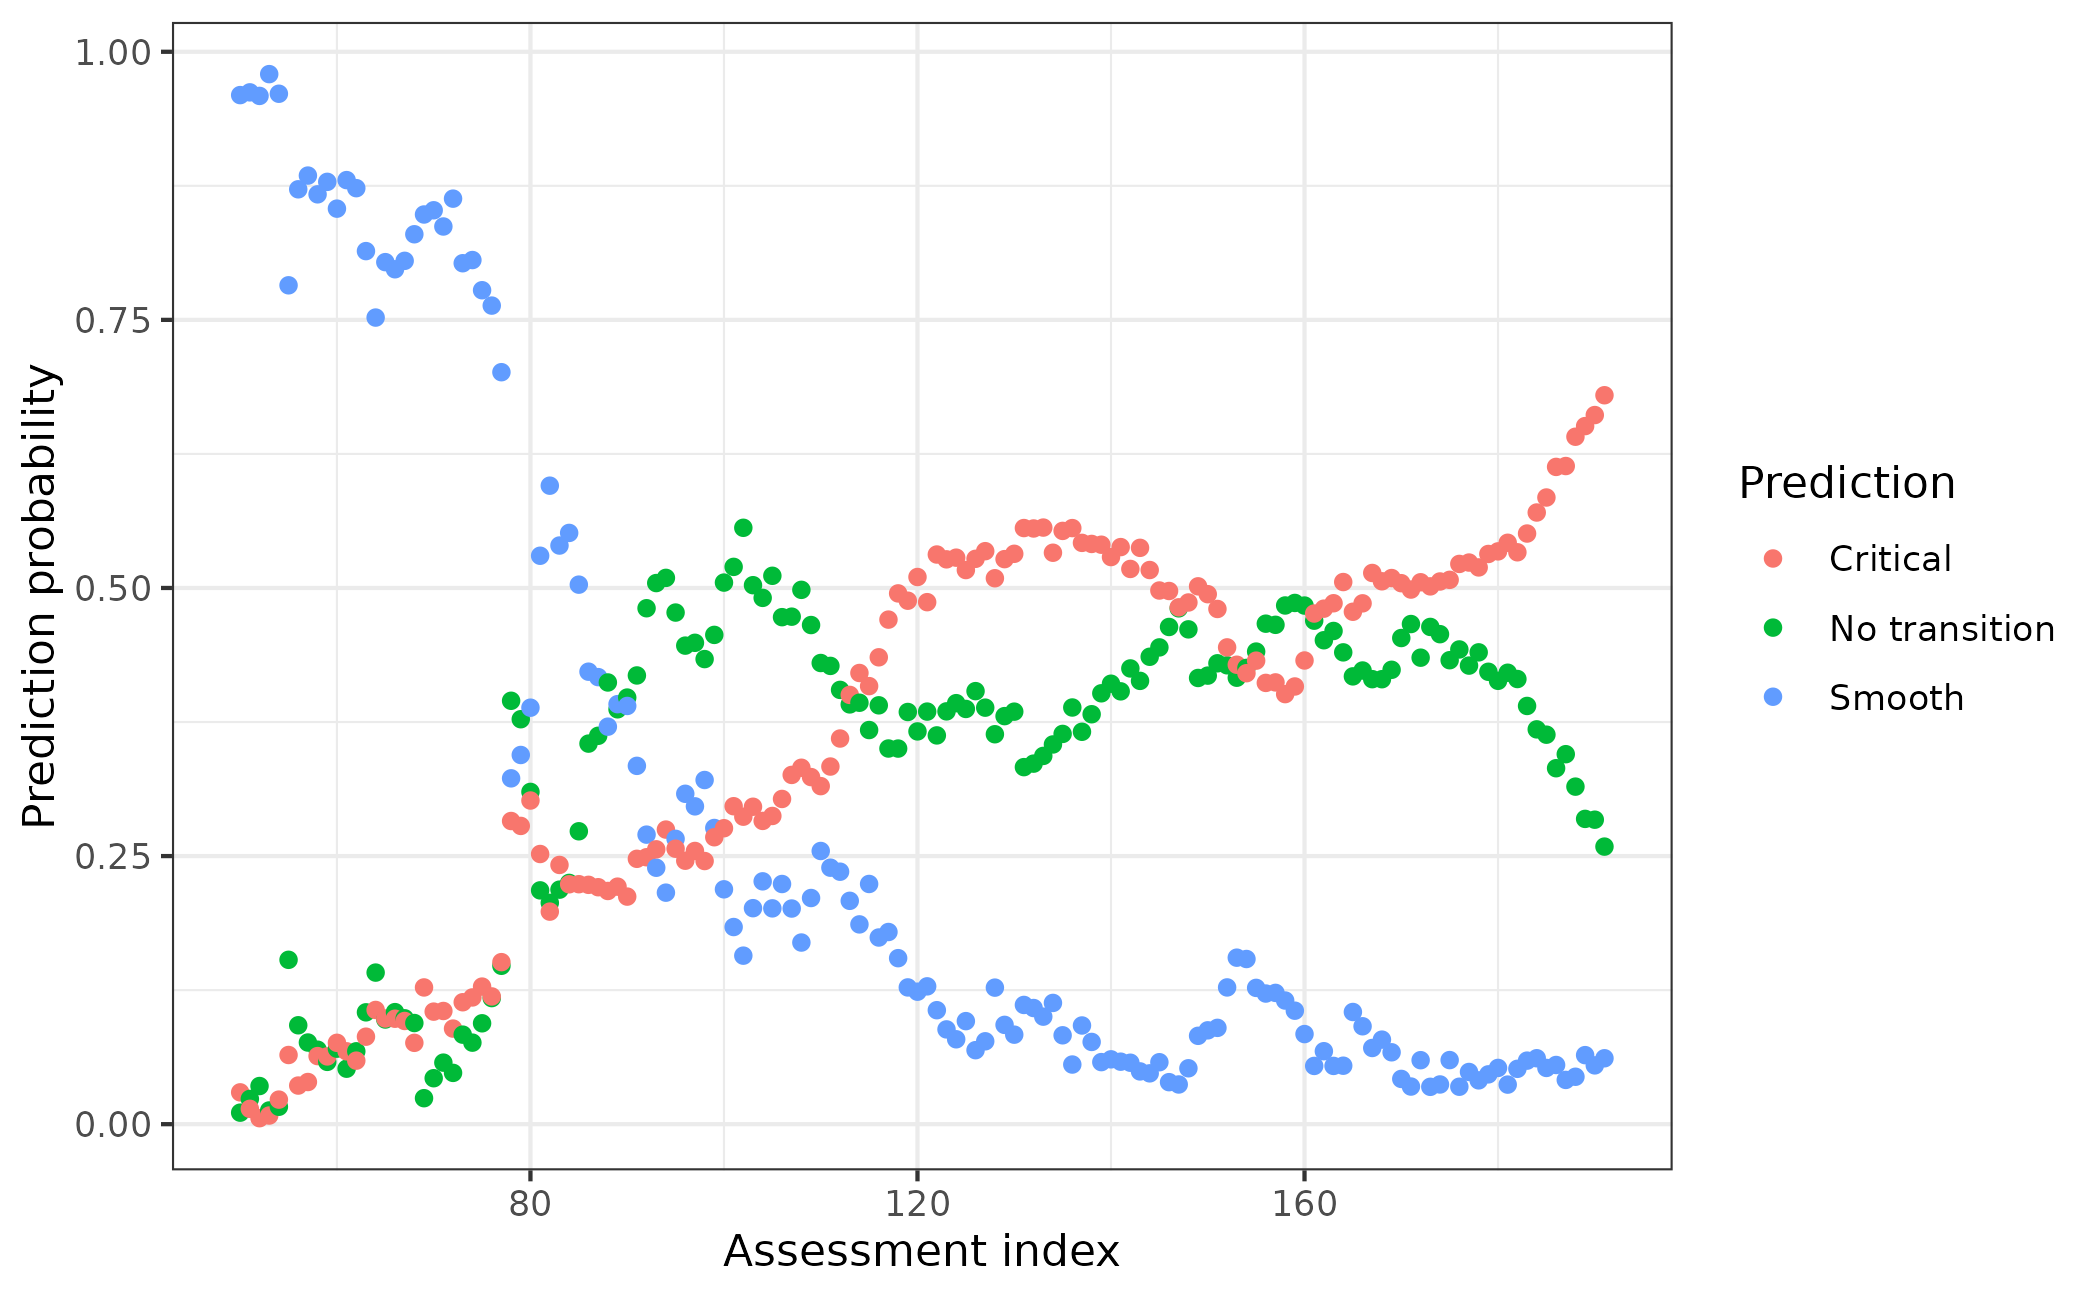
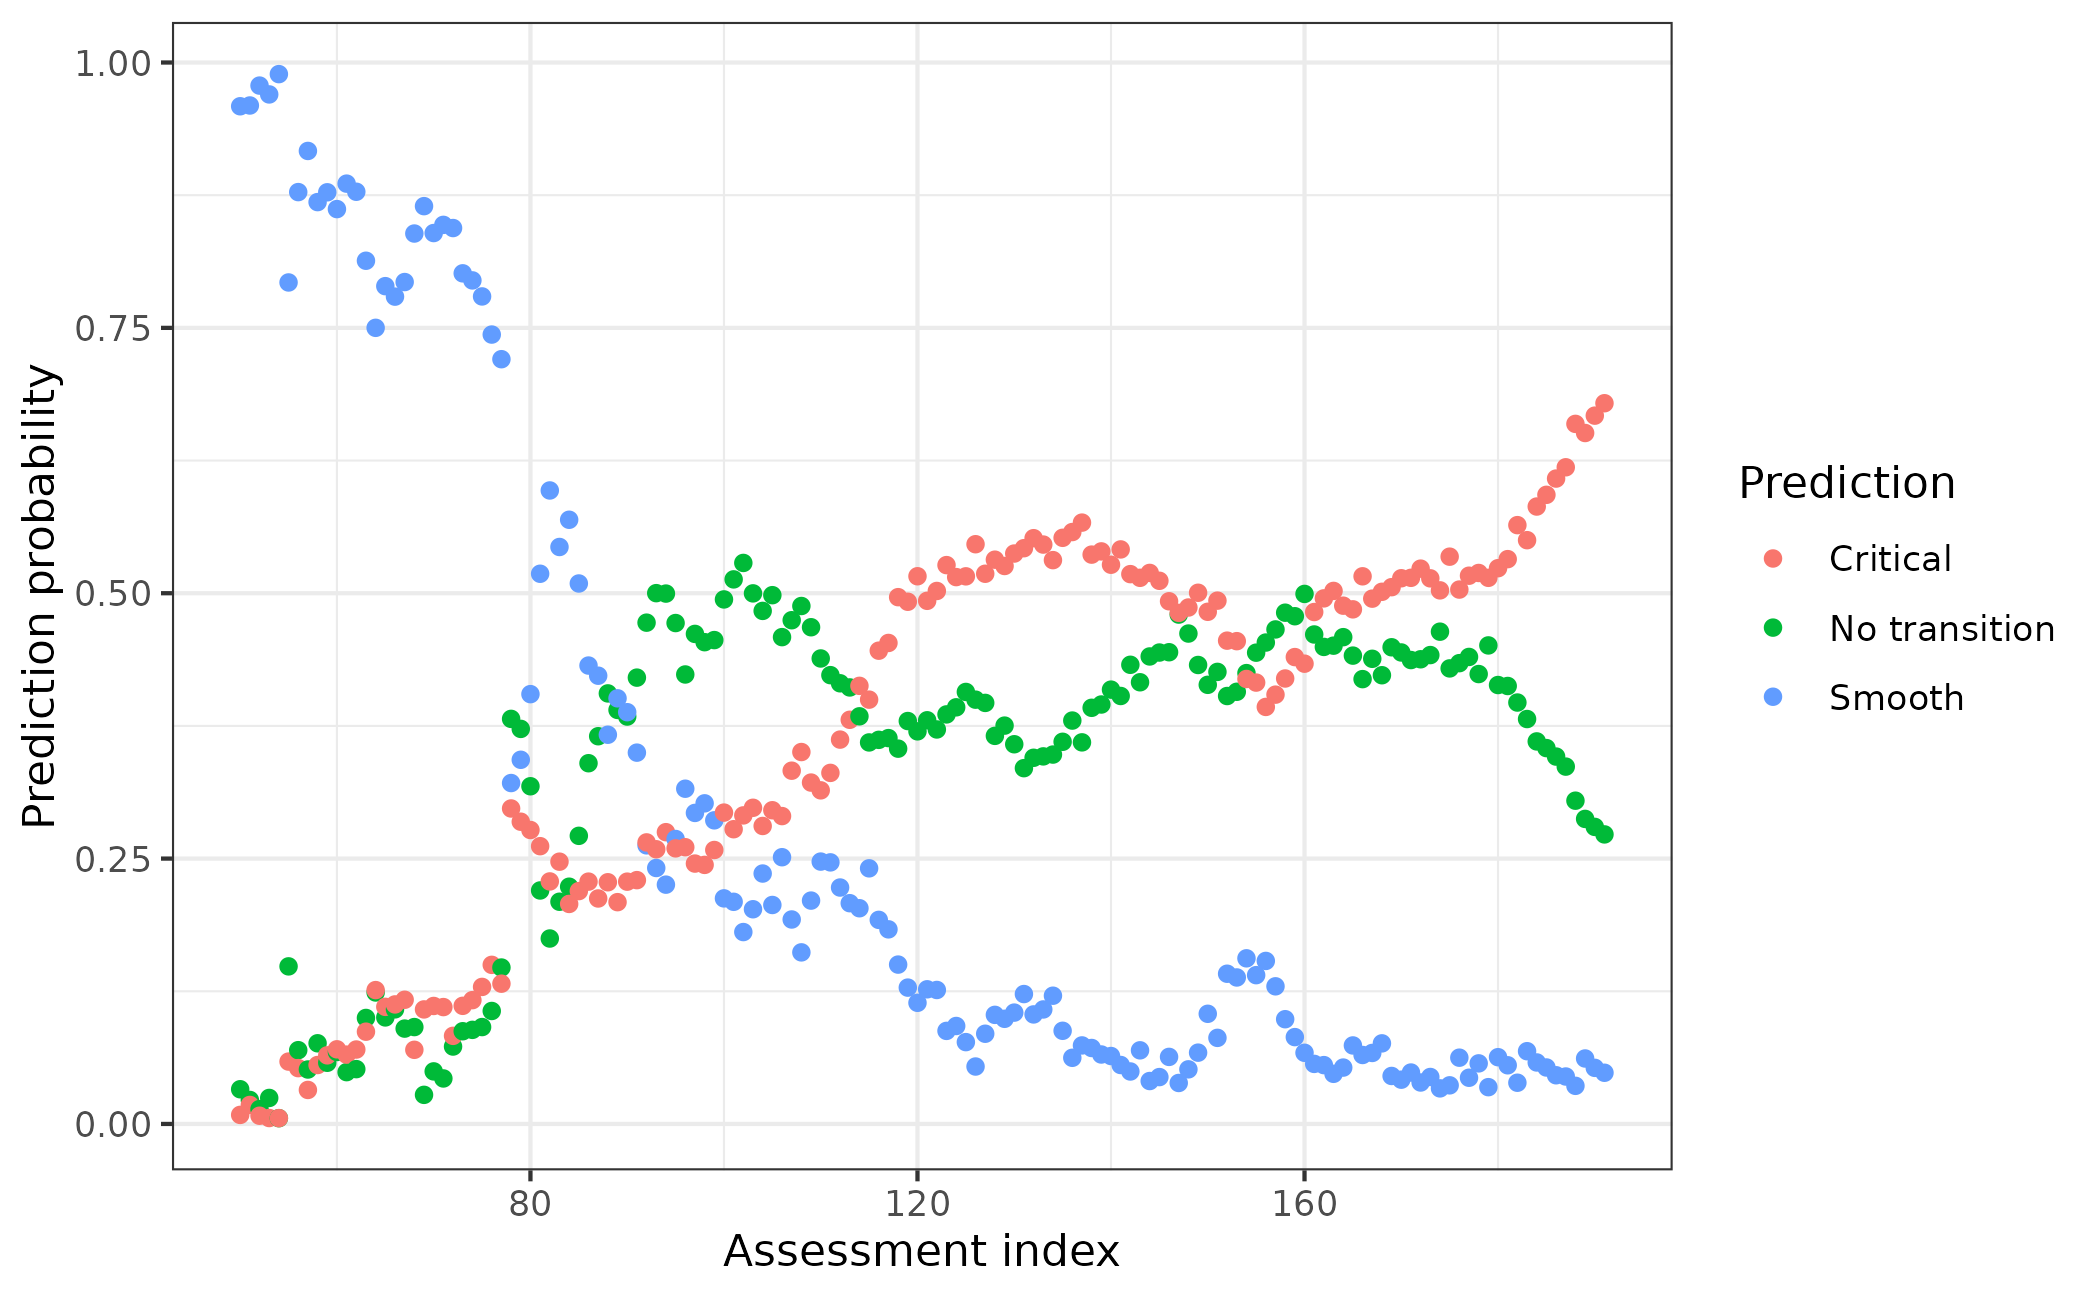
Deploying to gh-pages from @ duncanobrien/EWSmethods@dad83c39f764b853b6fd6fbea768a189d4187b56 🚀

diff --git a/articles/using_ewsnet.html b/articles/using_ewsnet.html
@@ -85,7 +85,7 @@
       <img src="../logo.svg" class="logo" alt=""><h1>Using EWSNet</h1>
                         <h4 data-toc-skip class="author">Duncan O’Brien</h4>
             
-            <h4 data-toc-skip class="date">2022-10-07</h4>
+            <h4 data-toc-skip class="date">2022-10-10</h4>
       
       <small class="dont-index">Source: <a href="https://github.com/duncanobrien/EWSmethods/blob/HEAD/vignettes/using_ewsnet.Rmd" class="external-link"><code>vignettes/using_ewsnet.Rmd</code></a></small>
       <div class="d-none name"><code>using_ewsnet.Rmd</code></div>
@@ -167,7 +167,7 @@
 <span></span>
 <span><span class="va">ewsnet_prediction</span></span>
 <span><span class="co">#&gt;                  pred no_trans_prob smooth_trans_prob critical_trans_prob</span></span>
-<span><span class="co">#&gt; 1 Critical Transition     0.2609516        0.04718157           0.6918668</span></span></code></pre></div>
+<span><span class="co">#&gt; 1 Critical Transition     0.2736585        0.04656814           0.6797735</span></span></code></pre></div>
 <div class="section level4">
 <h4 id="interpreting-ewsnet">Interpreting EWSNet<a class="anchor" aria-label="anchor" href="#interpreting-ewsnet"></a>
 </h4>

diff --git a/articles/ews_assessments.html b/articles/ews_assessments.html
@@ -85,7 +85,7 @@
       <img src="../logo.svg" class="logo" alt=""><h1>Performing Early Warning Signal Assessments</h1>
                         <h4 data-toc-skip class="author">Duncan O’Brien</h4>
             
-            <h4 data-toc-skip class="date">2022-10-07</h4>
+            <h4 data-toc-skip class="date">2022-10-10</h4>
       
       <small class="dont-index">Source: <a href="https://github.com/duncanobrien/EWSmethods/blob/HEAD/vignettes/ews_assessments.Rmd" class="external-link"><code>vignettes/ews_assessments.Rmd</code></a></small>
       <div class="d-none name"><code>ews_assessments.Rmd</code></div>
